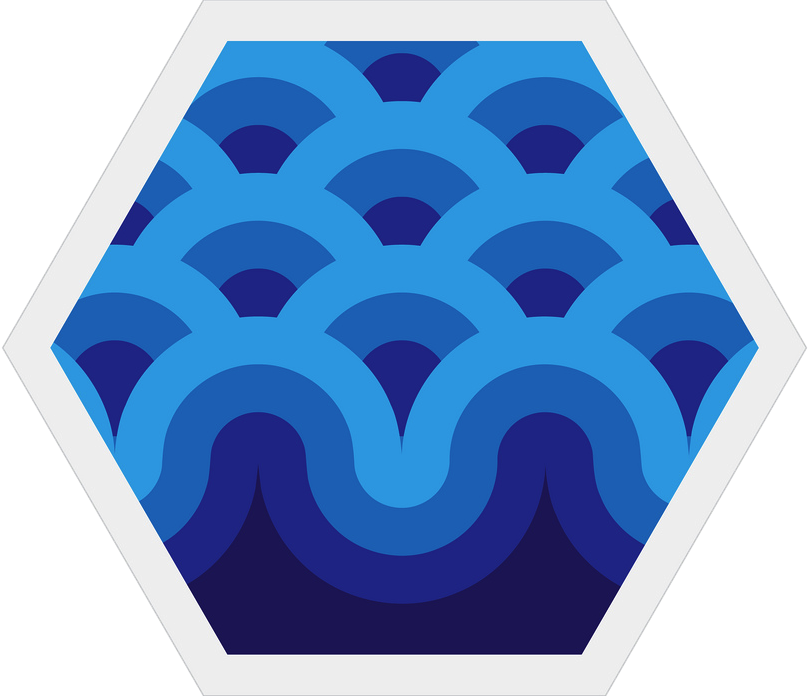
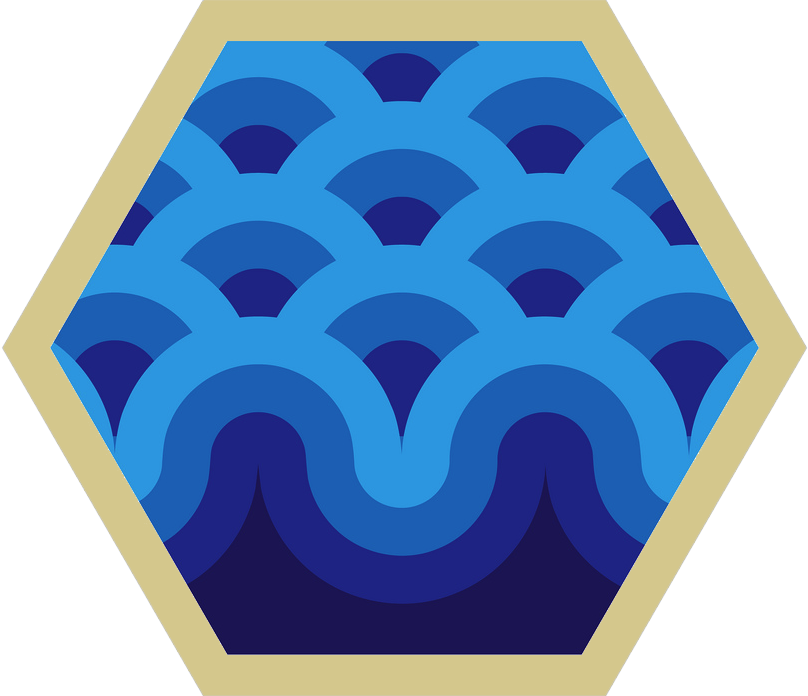
Updated image borders.

Changed region(s): [[0.0, 0.0, 1.0, 1.0]]

diff --git a/PioneersOfNeb/public_html/javascript/Tile.js b/PioneersOfNeb/public_html/javascript/Tile.js
@@ -4,7 +4,7 @@ var RESOURCE = {
      SHEEP: {val: 2, imgPath: "images/tile_sheep.png"},
      WHEAT: {val: 3, imgPath: "images/tile_wheat.png"},
        ORE: {val: 4, imgPath: "images/tile_ore.png"},
-    DESERT: {val: 5, imgPath: "images/tile_desert_2.png"},
+    DESERT: {val: 5, imgPath: "images/tile_desert.png"},
        SEA: {val: 6, imgPath: "images/tile_sea.png"}
 };
 
@@ -113,7 +113,7 @@ Tile.prototype.resizePoints = function(x, y, width, height, sidelength) {
  */
 Tile.prototype.draw = function(ctx) {
 
-    ctx.strokeStyle = "black";
+    ctx.strokeStyle = "tan";
     ctx.lineWidth = 1;
     ctx.beginPath();
     ctx.moveTo(this.Points[0].X, this.Points[0].Y);
